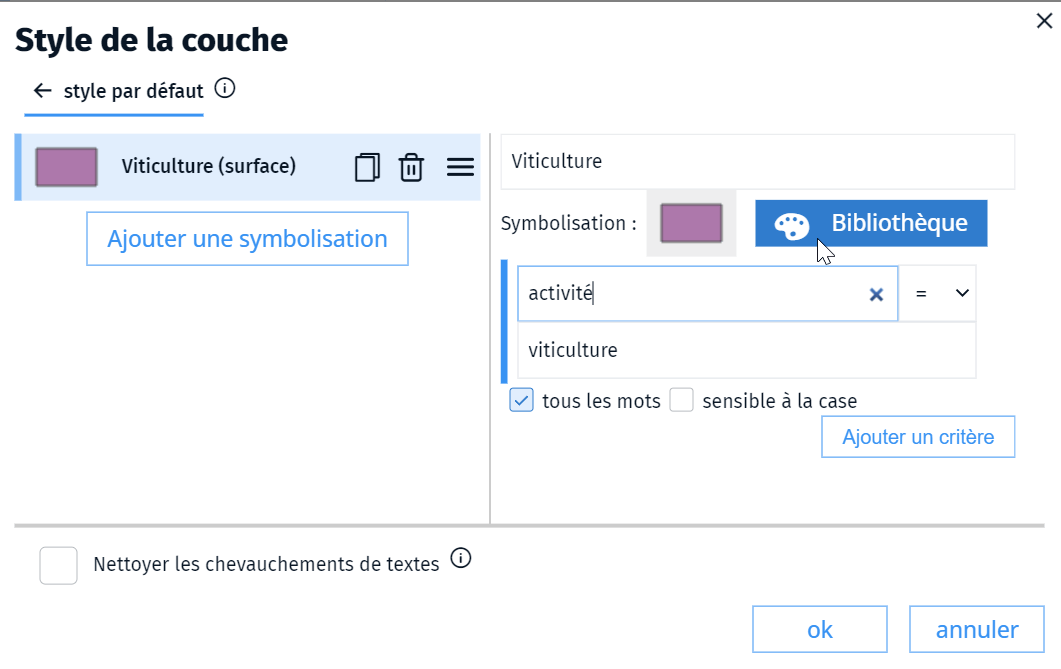
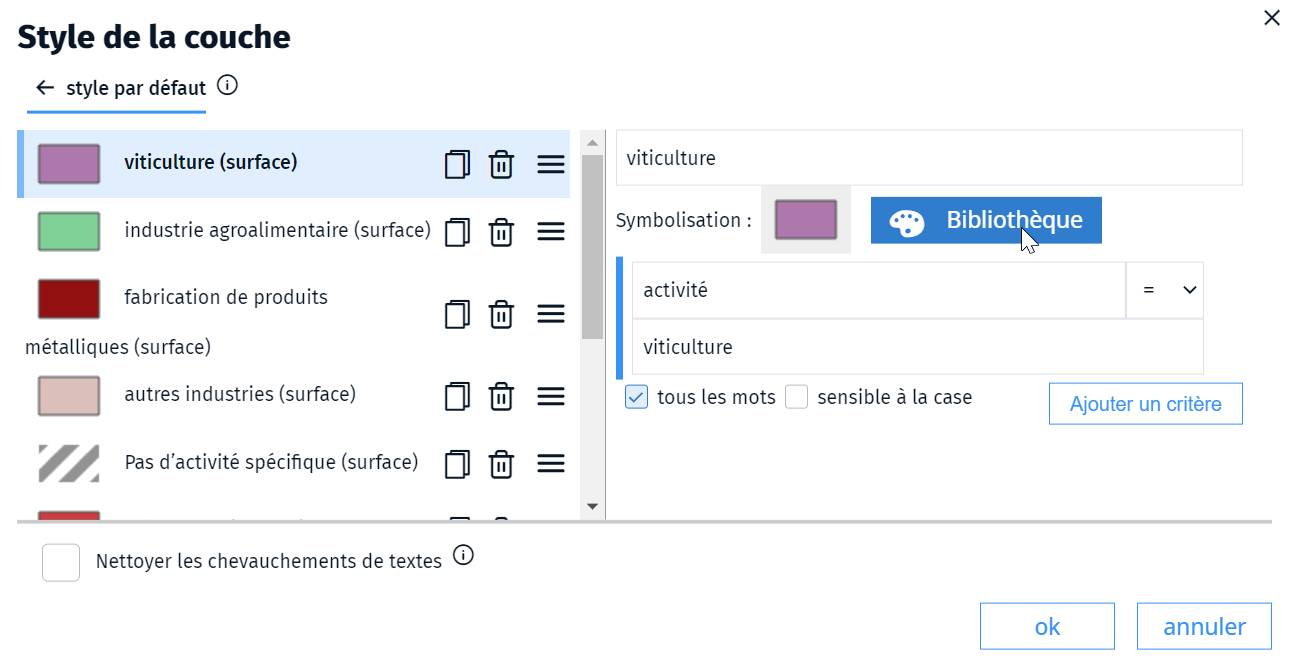
[UPD]

diff --git a/chap-5/5.2-insee.md b/chap-5/5.2-insee.md
@@ -39,9 +39,9 @@ Ici, pas de problème, les données sont disponibles et téléchargeables sur le
 {: warning }
 **Attention** cependant les données datent d'avant la fusion des communautés de communes de la Région d'Orgelet, Jura sud, Petite Montagne et Pays des lacs, le 1er janvier 2020, pour former la Communauté de communes Jura Sud, Pays des Lacs, Petite Montagne et Région d'Orgelet.
 
-Comme les données disponibles aux EPCI ne remontent pas jusque-là, il va donc être nécessaire de fusionner les lignes dans le fichier (ce qui n'a pas d'impact puisqu'ils n'ont pas d'activité rare, ni d'emplois dans le fichier d'origine). Comme le fichier contient d'autres pages de statistiques, il est nécessaire d'isoler la page qui nous intéresse (graphique 3) et de supprimer les lignes d'entête et de la dernière ligne de la page.
+Comme les données disponibles aux EPCI ne remontent pas jusque-là, il va donc être nécessaire de fusionner les lignes dans le fichier (ce qui n'a pas d'impact puisqu'ils n'ont pas d'activité rare, ni d'emplois dans le fichier d'origine). Comme le fichier contient d'autres pages de statistiques, il est également nécessaire d'isoler la page qui nous intéresse (graphique 3) et de supprimer les lignes d'entête ainsi que la dernière ligne de la page.
 
-Un fichier correctement préparé est [téléchargeable ici](/Macarte-MI/assets/cartes/bf_ina_77.csv). 
+Un fichier correctement préparé est directement [téléchargeable ici](/Macarte-MI/assets/cartes/bf_ina_77.csv). 
 
 ## La carte
 
@@ -60,7 +60,7 @@ Enregistrez la carte sur votre compte (menu <i class="fi-save"></i>) ou sur votr
 ### La carte des emplois
 
 Recommencez l'opération pour générer la carte des emplois.   
-Cette fois-ci, dans l'onglet statistique <i class="fi-list blue-disk"></i>, utilisez un type "symbole" avec l'attribut du nombre d'emplois.
+Cette fois-ci, dans l'onglet statistique <i class="fi-list blue-disk"></i>, utilisez un type "symbole" avec l'attribut du `nombre d'emplois`.
 
 Paramétrez les classes et les symboles mais ne cherchez pas à modifier les couleurs (on veut juste calculer la taille des symboles).   
 Utilisez une représentation proportionnelle à la surface afin de bien représenter le nombre d'emplois.
@@ -88,22 +88,25 @@ Sélectionnez tous les objets du calque et allez dans le panneau <i class="fi-pe
 {: .center }
 ![](/Macarte-MI/assets/img/ch5.2-symb-color.png){:width="550px"}
 
-Il faudra aussi supprimer les points n'ayant pas d'emploi en allant dans le panneau <i class="fg-search-attribtues blue-disk"></i> pour sélectionner les objets dont nb_emploi est nulle (= 0). Puis supprimez-les (touche suppr.)
+Il faudra aussi supprimer les points n'ayant pas d'emploi en allant dans le panneau <i class="fg-search-attribtues blue-disk"></i> pour sélectionner les objets dont `nb_emploi` est nulle (= 0). Puis supprimez-les (touche suppr.)
 
 Passons maintenant à la couche des **catégories d'emplois**, sur laquelle nous allons appliquer les couleurs fournies dans la bibliothèque de symboles précédemment chargée.   
-Pour cela, nous allons utiliser un style paramétrique (en fonction d'un attribut). Allez dans le dialogue de gestion des styles de la couche (<i class="fg-color"></i> du gestionnaire de couche) et cliquez sur **style paramétrique**.   
-Ajoutez une nouvelle  symbolisation, choisissez-en une dans la bibliothèque et indiquez la condition "activité =" et la valeur de l'activité correspondant à celle du type d'activité à représenter.
+Comme précédemment, il est nécessaire transformer la couche statistique en couche de dessin pour pouvoir modifier sa symbolisation. Ouvrez donc la fenêtre de configuration de la couche (<i class="fi-configuration"></i> dans le gestionnaire de couches) et dans la partie "mode", cochez la case "utiliser les styles paramétriques" puis cliquez sur le bouton **convertir**.
 
-Refaites la même chose pour toutes les activités.
+{: .center }
+![](/Macarte-MI/assets/img/ch5.2-convert.png){:width="650px"}
+
+Un style paramétrique (en fonction d'un attribut) est ainsi définit à partir de la statistique. Rendez-vous alors dans le dialogue de gestion des styles de la couche (<i class="fg-color"></i> du gestionnaire de couche).   
+Vous pouvez modifier la représentation des activités : cliquez sur la ligne dans la partie gauche puis choisissez la symbolisation retenue dans la bibliothèque dans la partie droite.
 
 {: .center .shadow }
 ![](/Macarte-MI/assets/img/ch5.2-categorie.png){:width="650px"}
 
 ### gestion des légendes
 
-Nous allons maintenant appliquer une légende à la couche.
+Nous allons maintenant appliquer une légende à chaque couche.
 
-Sélectionnez la couche des activités dans le gestionnaire de calques puis ouvrez le dialogue de légende <i class="fg-map-legend"></i> choisissez une légende manuelle et cliquez sur le bouton "depuis le style du calque. La légende est déduite du style paramétrique.   
+Sélectionnez la couche des activités dans le gestionnaire de calques puis ouvrez le dialogue de légende &nbsp;<i class="fg-map-legend"></i>&nbsp; dans le gestionnaire de couche. Choisissez une légende manuelle dans le dialogue qui s'ouvre et cliquez sur le bouton "depuis le style du calque". La légende est déduite du style paramétrique.   
 Allez ensuite dans le panneau d'affichage <i class="fg-map-legend blue-disk"></i> activez la légende de la carte et ajoutez la légende du calque.
 
 {: .center .shadow }
@@ -118,7 +121,7 @@ Faites de même pour la couche des emplois mais cette fois, il faudra utiliser l
 ### cadrage sur la région.
 
 Afin de faire ressortir la région, nous allons atténuer la partie de la carte située autour de la région Bourgogne-Franche-Compté.   
-Pour cela affichez la couche "BFC (allégée)" dans le gestionnaire de couches et sélectionnez la région, puis sélectionnez la couche "Plan IGN" et ouvrez le dialogue de configuration de la couche <i class="fi-configuration"></i> pour configurer le masque de découpage. Cliquez sur le bouton Utiliser la sélection et choisissez une couche de masque avec une opacité réduite.    
+Pour cela affichez la couche "BFC (allégée)" dans le gestionnaire de couches et sélectionnez la région, puis sélectionnez la couche "Plan IGN" et ouvrez le dialogue de configuration de la couche <i class="fi-configuration"></i> pour définir le masque de découpage. Cliquez sur le bouton "Utiliser la sélection" et choisissez une couleur de masque avec une opacité réduite.    
 La partie en dehors du masque de découpage prend la couleur choisie.
 
 {: .center .shadow }

diff --git a/chap-5/5.1-nautilus.md b/chap-5/5.1-nautilus.md
@@ -27,8 +27,8 @@ Pour cette narration, nous allons partir du roman **Vingt mille lieues sous les 
 
 ## Trouver le livre
 
-L'édition de 1871 est disponible sur le [site de la BnF](https://gallica.bnf.fr/ark:/12148/bpt6k6577310x/f1.item). Le document est passé par un OCR (reconnaissance optique de caractères), ce qui veut dire qu'on pourra faire des recherches dans le texte, ce qui va s'avérer utile par la suite...   
-Il s'agit d'une version illustrée et contient une carte du trajet du Nautilus qui va pouvoir nous aider lors de nos recherches.
+L'édition de 1871 est disponible sur le [site de la BnF](https://gallica.bnf.fr/ark:/12148/bpt6k6577310x/f1.item). Le document est passé par un OCR (reconnaissance optique de caractères), ce qui veut dire qu'on pourra faire des recherches dans le texte. Cela va s'avérer utile par la suite...   
+Il s'agit d'une version illustrée avec une carte du trajet du Nautilus qui va nous aider lors de nos recherches.
 
 Sinon, le texte est disponible sur la [bibliothèque Wikisource](https://fr.wikisource.org/wiki/Vingt_mille_lieues_sous_les_mers).   
 Il contient aussi les reproductions des gravures d'Alphonse de Neuville, tirées de l'édition originale, qu'on pourra exploiter dans notre histoire (elles sont aujourd'hui dans le domaine public).
@@ -38,13 +38,13 @@ Enfin, le manuscrit original, écrit de la main de Jules Verne, est disponible s
 
 ## A la recherche des coordonnées
 
-Tout d'abord, remarquons que Jules Verne, vulgarisateur scientifique, a ajouté à sa trame romanesque des informations précises comme des **coordonnées géographiques**, ce qui va nous permettre de suivre les positions du sous-marin sur une carte.
+Tout d'abord, remarquons que Jules Verne, vulgarisateur scientifique, a ajouté à sa trame romanesque des informations précises comme des **coordonnées géographiques**. Nous allons ainsi pouvoir suivre les positions du sous-marin sur une carte.
 
 {: .center .small }
 ![](/Macarte-MI/assets/img/ch5.1-coords.png)   
 *Coordonnées géographiques dans le roman &copy; [Gallica](https://gallica.bnf.fr/ark:/12148/bpt6k6577310x/f38.image.r=%22latitude%20nord%22)*
 
-Pour cela, cherchons tout ce qui peut ressembler à une coordonnée dans le texte sur le site [Gallica de la BnF](https://gallica.bnf.fr/ark:/12148/bpt6k6577310x/f1.item). Dans l'outil de recherche sur la droite, entrez le texte à chercher et les pages s'afficheront sur la droite. Le plus simple est de chercher quelque chose comme `"latitude nord"` ou `"latitude sud"` (ou longitude est / ouest).   
+Cherchons donc tout ce qui peut ressembler à une coordonnée dans le texte sur le site [Gallica de la BnF](https://gallica.bnf.fr/ark:/12148/bpt6k6577310x/f1.item). Dans l'outil de recherche sur la droite, entrez le texte à chercher et les pages s'afficheront sur la droite. Le plus simple est de chercher quelque chose comme `"latitude nord"` ou `"latitude sud"` (ou longitude est / ouest).   
 Il ne vous reste plus qu'à noter les coordonnées renvoyées par l'outil de la BnF et retrouver les pages concernées.
 
 {: .center .small shadow }
@@ -53,23 +53,23 @@ Il ne vous reste plus qu'à noter les coordonnées renvoyées par l'outil de la 
 
 ## Saisir les coordonnées
 
-Dans la dernière version de l'outil [Ma carte](https://macarte.ign.fr/edition/carte/), il est possible de saisir des points par leurs coordonnées. Il suffit de rentrer la longitude et la latitude et de cliquer sur le bouton en dessous avec les coordonnées pour localiser l'endroit. Puis faites "ajouter le point" pour le matérialiser.
+Dans la dernière version de l'outil [Ma carte](https://macarte.ign.fr/edition/carte/), il est possible de saisir des points par leurs coordonnées. Vous n'avez qu'à entrer la longitude et la latitude puis cliquez sur le bouton en dessous avec les coordonnées pour localiser l'endroit. Faites "ajouter le point" pour matérialiser la position ainsi fournie.
 
 {: .center .small shadow }
 ![](/Macarte-MI/assets/img/ch5.1-coord.jpg)   
 *saisie des coordonnées dans Ma carte*
 
 Cela va nous permettre de placer les points trouvés dans le livre sur la carte.   
-Vous pouvez leur ajouter une bulle pour décrire cette étape du Nautilus.
+Vous pouvez aussi leur ajouter une bulle pour décrire cette étape du Nautilus.
 
 ## Tracer la route
 
-Utilisez alors l'outil de dessin <i class="fg-polyline-pt"></i> pour matérialiser le trajet du sous-marin comme sur la [carte du livre](#sur-les-traces-du-nautilus). Pensez à enclencher l'accroche aux objets (<i class="fg-snap"></i>) dans la barre d'outils pour vous assurer que le chemin passe par bien par les points saisis.
+Utilisez ensuite l'outil de dessin <i class="fg-polyline-pt"></i> pour matérialiser le trajet du sous-marin comme sur la [carte du livre](#sur-les-traces-du-nautilus). Pensez à enclencher l'accroche aux objets (<i class="fg-snap"></i>) dans la barre d'outils pour vous assurer que le chemin passe bien par les points saisis.
 
 {: .center }
 ![](/Macarte-MI/assets/img/ch5.1-tools.png)
 
-Vous pouvez passer le trajet dans un autre calque que les points (Ctrl+C / Ctrl+V), ainsi le calque pourra être verrouiller pour éviter qu'on puisse sélectionner le trajet, ce qui a peu d'intérêt dans notre cas.
+Vous pouvez passer le trajet saisi dans un autre calque que celui des points (Ctrl+C / Ctrl+V), ainsi le calque du trajet pourra être verrouiller pour éviter qu'on le puisse sélectionner, ce qui a peu d'intérêt dans notre cas.
 
 {: .center .shadow .small }
 ![](/Macarte-MI/assets/img/ch5.1-layerlock.png)   
